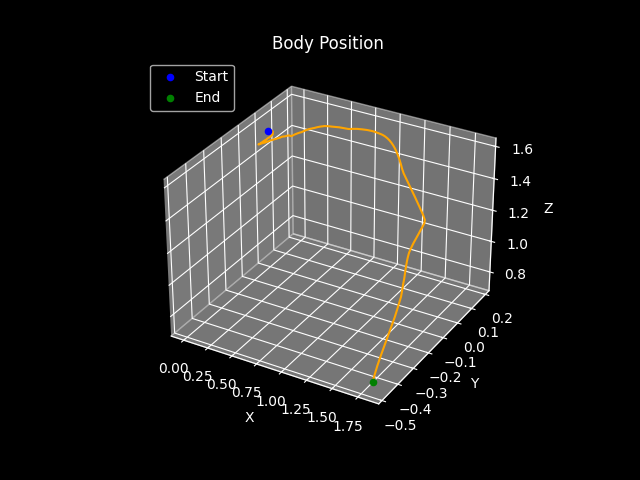
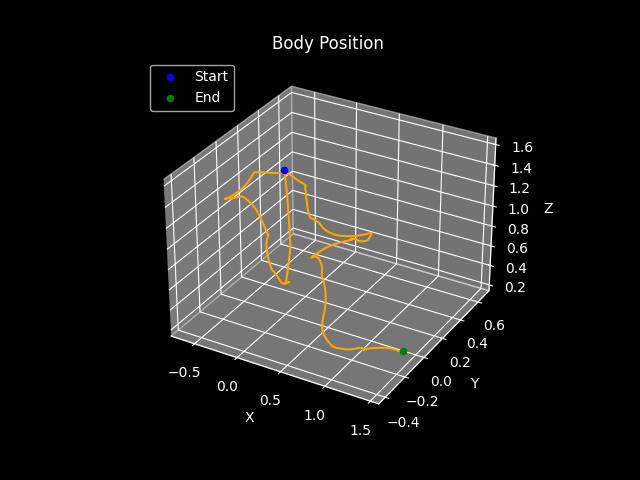
updated joint indices, added loading bar, tuned training params

Changed region(s): [[0.25, 0.1875, 0.8438, 0.9062]]

diff --git a/driver.py b/driver.py
@@ -31,11 +31,11 @@ class Driver:
         self.paths = {
             'models' :     os.path.join(self.cwd, 'models'),
             'figures':     os.path.join(self.cwd, 'figures'),
-            'spider-urdf': os.path.join(self.cwd, 'urdfs', 'spider_bot_v0.urdf')
+            'spider-urdf': os.path.join(self.cwd, 'urdfs', 'spider_bot_v2.urdf')
         }
         self.env = SpiderBotSimulator(self.paths['spider-urdf'],
                         real_time_enabled = True if self.mode == 'test' else False, 
-                        gui = True,
+                        gui = self.mode == 'test',
                         fast_mode = False if self.mode == 'test' else True)
 
     def run(self) -> None:
@@ -43,7 +43,7 @@ class Driver:
         self.modes[self.mode]()
 
     def train(self) -> None:
-        ev = Evolution(self.env, self.episode, gens=100)
+        ev = Evolution(self.env, self.episode, gens=25)
 
         currentdir = os.getcwd()
         config_path = os.path.join(currentdir, 'neat/neat_config')
@@ -93,7 +93,29 @@ class Driver:
             )
             
         return self.calc_fitness(rewards)
+    
+    def preprocess(self, observation: np.ndarray) -> np.ndarray:
+        pos, vel = np.split(observation, [12])
+        normal_pos = pos / self.env.spider.max_angle_range
+        normal_vel = vel / self.env.spider.nominal_joint_velocity
+        return np.array([*normal_pos, *normal_vel])
 
+    def log_state(self, observation: np.ndarray, controls: np.ndarray) -> None:
+        pass
+
+    def calc_fitness(self, rewards: list) -> float:
+        return sum(rewards) / len(rewards)
+
+    def save_model(self, model, fn: str = "model") -> None:
+        with open(f'neat/{fn}.pickle', 'wb') as f:
+            pickle.dump(model, f, pickle.HIGHEST_PROTOCOL)
+            print("Successfully pickled winner net")
+    
+    def load_model(self, fn: str = "model"):
+        with open(f'neat/{fn}.pickle', 'rb') as f:
+            winner_net = pickle.load(f)
+        return winner_net
+    
     def graph_data(self, 
                     joint_positions:  np.array, 
                     joint_velocities: np.array,
@@ -116,25 +138,3 @@ class Driver:
         ax = GraphBodyTrajectory(body_positions)
         plt.savefig(os.path.join(self.paths['figures'], 'body_position'))
         if display_graphs: plt.show()
-    
-    def preprocess(self, observation: np.ndarray) -> np.ndarray:
-        pos, vel = np.split(observation, [12])
-        normal_pos = pos / (2 * np.pi)
-        normal_vel = vel / self.env.spider.nominal_joint_velocity
-        return np.array([*normal_pos, *normal_vel])
-
-    def log_state(self, observation: np.ndarray, controls: np.ndarray) -> None:
-        pass
-
-    def calc_fitness(self, rewards: list) -> float:
-        return sum(rewards) / len(rewards)
-
-    def save_model(self, model, fn: str = "model") -> None:
-        with open(f'neat/{fn}.pickle', 'wb') as f:
-            pickle.dump(model, f, pickle.HIGHEST_PROTOCOL)
-            print("Successfully pickled winner net")
-    
-    def load_model(self, fn: str = "model"):
-        with open(f'neat/{fn}.pickle', 'rb') as f:
-            winner_net = pickle.load(f)
-        return winner_net

diff --git a/spider_bot/spider_bot_model.py b/spider_bot/spider_bot_model.py
@@ -2,6 +2,7 @@
 
 """
 
+from icecream import ic
 import pybullet as pb
 import numpy as np
 
@@ -10,14 +11,16 @@ class SpiderBot:
         self.model_path = model_path
         self.id = pb.loadURDF(self.model_path, initial_pos, flags=pb.URDF_USE_SELF_COLLISION)
         self.num_joints = pb.getNumJoints(self.id)
-        
+
         # orange, green, yellow, purple        
-        self.inner_joints = [0, 3, 6, 9]
-        self.middle_joints = [1, 4, 7, 10]
-        self.outer_joints = [2, 5, 8, 11]
+        self.inner_joints = [0, 4, 8, 12]
+        self.middle_joints = [1, 5, 9, 13]
+        self.outer_joints = [2, 6, 10, 14]
+        self.ankles = [3, 7, 11, 15]
         
-        self.nominal_joint_velocity = 13.09
         self.max_joint_angle = 1.571
+        self.max_angle_range = 3.142
+        self.nominal_joint_velocity = 6  # hard code for now to improve normalization # 13.09
         
         self.joints = [self.inner_joints, self.middle_joints, self.outer_joints]
         self.joints_flat = self.inner_joints + self.middle_joints + self.outer_joints
@@ -27,25 +30,29 @@ class SpiderBot:
         self.reset_joints_state(self.middle_joints, np.full(4, -1))
         self.reset_joints_state(self.inner_joints, np.full(4, 1))
         
-        self.change_lateral_friction(self.outer_joints, np.full(4, 5))
-        self.set_max_joint_velocities(self.joints_flat, np.full(12, self.nominal_joint_velocity))
+        self.change_lateral_friction(self.ankles, np.full(4, 2))
+        self.set_max_joint_velocities(self.joints_flat + self.ankles, np.full(12, self.nominal_joint_velocity))
         
-        # JOINT INDICES
-        # 0 is orange inner leg to body
-        # 1 is orange inner leg to middle leg
-        # 2 is orange middle leg to outer leg
-
-        # 3 is green inner leg to body
-        # 4 is green inner leg to middle leg
-        # 5 is green middle leg to outer leg
-
-        # 6 is yellow inner leg to body
-        # 7 is yellow inner leg to middle leg
-        # 8 is yellow middle leg to outer leg
-
-        # 9 is purple inner leg to body
-        # 10 is purple inner leg to middle leg
-        # 11 is purple middle leg to outer leg
+        # JOINT INDICES -- UPDATED
+        # 0 is orange inner
+        # 1 is orange middle
+        # 2 is orange outer
+        # 3 is orange ankle
+        
+        # 4 is green inner
+        # 5 is green middle
+        # 6 is green outer
+        # 7 is green ankle
+        
+        # 8 is yellow inner
+        # 9 is yellow middle
+        # 10 is yellow outer
+        # 11 is yellow ankle
+        
+        # 12 is purple inner
+        # 13 is purple middle
+        # 14 is purple outer
+        # 15 is purple ankle
         
     def get_id(self):
         return self.id

diff --git a/spider_bot/environments.py b/spider_bot/environments.py
@@ -2,6 +2,7 @@
 
 """
 
+import numpy as np
 import pybullet as pb
 import pybullet_data
 from icecream import ic
@@ -40,11 +41,11 @@ class SpiderBotSimulator(Env):
         
         self.observation_space = spaces.Box(
             low = np.array([
-                    *np.full(12, -2*np.pi),
+                    *np.full(12, -self.spider.max_joint_angle),
                     *np.full(12, -self.spider.nominal_joint_velocity)
                 ]),
             high = np.array([
-                    *np.full(12, 2*np.pi),
+                    *np.full(12, self.spider.max_joint_angle),
                     *np.full(12, self.spider.nominal_joint_velocity)
                 ]),
         )
@@ -129,7 +130,7 @@ class SpiderBotSimulator(Env):
     
     def spider_is_standing(self):
         # returns !(there exists some point of contact involving a spider link thats not an outer leg)
-        return not any([p[3] not in self.spider.outer_joints for p in pb.getContactPoints(self.spider.id, self.plane_id)])
+        return not any([p[3] not in self.spider.ankles for p in pb.getContactPoints(self.spider.id, self.plane_id)])
         
     def close(self) -> None:
         pb.disconnect()

diff --git a/spider_bot/training.py b/spider_bot/training.py
@@ -3,6 +3,7 @@
 """
 
 import numpy as np
+from tqdm import tqdm
 from icecream import ic
 import neat
 
@@ -23,7 +24,9 @@ class Evolution:
         p = neat.Population(config)
 
         p.add_reporter(neat.StdOutReporter(True))
-        p.add_reporter(neat.StatisticsReporter())
+        stats = neat.StatisticsReporter()
+        p.add_reporter(stats)
+        p.add_reporter(neat.Checkpointer(5))
 
         winner = p.run(self.eval_genomes, self.generations)
         print('\nBest genome:\n{!s}'.format(winner.fitness))
@@ -32,10 +35,7 @@ class Evolution:
         return ic(winner_net)
 
     def eval_genomes(self, genomes, config):
-        for genome_id, genome in genomes:
-            print("Genome#", genome_id, " fitness: ", end=" ")
+        for genome_id, genome in tqdm(genomes):
             genome.fitness = 0
             net = neat.nn.FeedForwardNetwork.create(genome, config)
-
             genome.fitness = self.fitness_function(Agent(net, 24, 12))
-            print(genome.fitness)

diff --git a/spider_bot/agent.py b/spider_bot/agent.py
@@ -3,6 +3,7 @@
 """
 
 import numpy as np
+from icecream import ic
 from functools import wraps
 
 def validate_shape(f):
@@ -32,6 +33,4 @@ class Agent:
     @validate_shape
     def predict(self, observation):
         # make ai prediction based on observation
-        #self.i += 1
         return self.model.activate(observation)
-        # return 0.5 * np.cos(np.full(12, self.i / 25))
